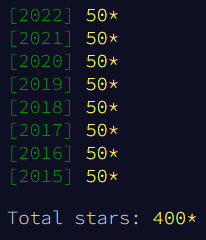
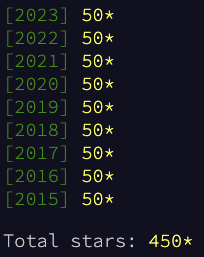
Add history section to README, update completed image

diff --git a/README.md b/README.md
@@ -1,8 +1,31 @@
 # Advent of Code
 
-Public Repo for Advent of Code Solutions
+Public Repo for Advent of Code Solutions.
 
 ![Years Completed](images/advent-completed.png)
+
+# History
+
+When I first started Advent in 2020 I wrote everything in `Python` for simplicity
+as well as getting better at my main scripting language.
+
+I then decided to go back and solve all the years from 2015 on also in `Python`.
+
+Since then I have used Advent as an opportunity to learn new languages.
+
+So far this has been:
+
+- 2021: [Go](https://go.dev/)
+- 2022: [Rust](https://www.rust-lang.org/)
+- 2023: [OCaml](https://ocaml.org/)
+
+Sometime after 2022 I decided to go back and optimize every solution with the goal
+of having no single solution take more than 1 second to run.
+
+Sometimes this involves algorithm improvements, other times I decided to re-write
+solutions from `Python` into something like `Rust` or `Go`.
+
+There is a section at the bottom of this doc tracking any remaining outliers.
 
 # Setup
 
